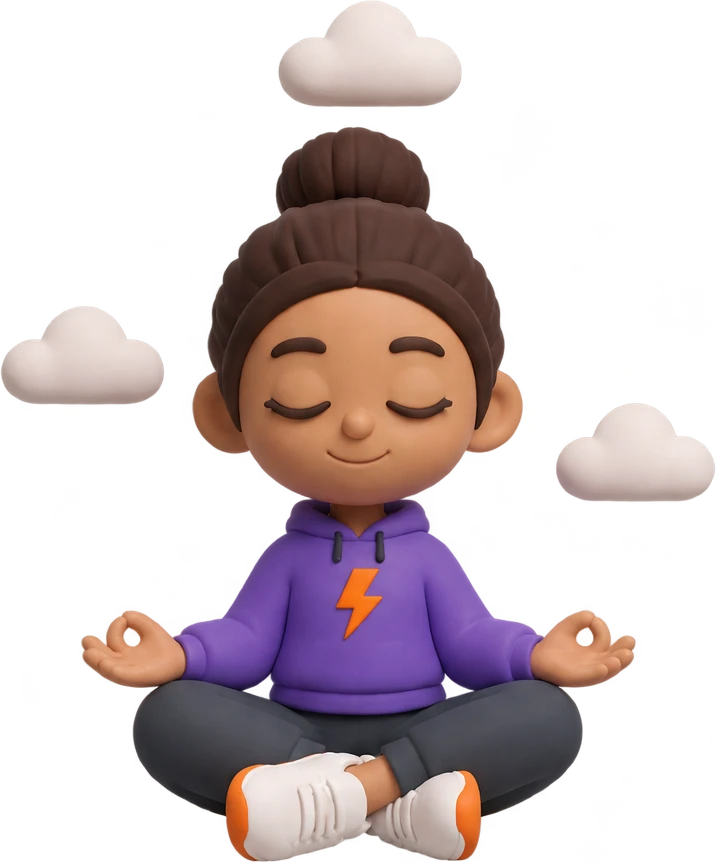
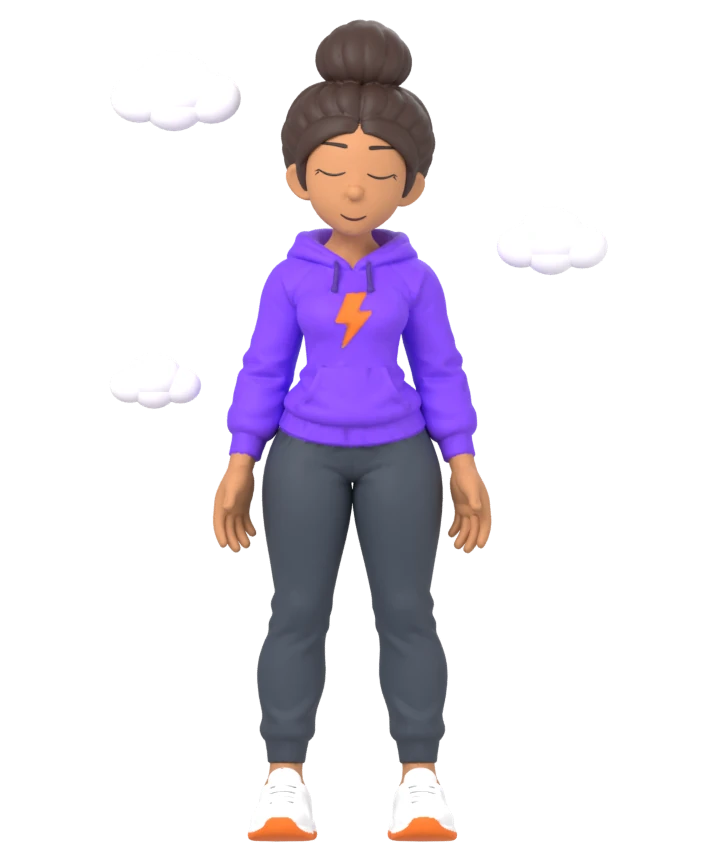
Cenas de calma, foco, leitura, limpeza, filhos e pet com os bonecos novos
Pedido do Elizeu em 28/11/2026: desligar os bonecos antigos em todo lugar.

- As seis ilustrações que ainda mostravam os personagens antigos (modo calma,
  foco, trilhas e missões) agora são os bonecos novos, renderizados dos
  modelos 3D por tools/avatar/v2/07_cenas.py, com objetos simples de cena:
  nuvens, relógio, livro, vassoura e balde, blocos e uma criança, cachorro
- Com isso, nenhuma tela do app mostra mais o boneco antigo

São cenas mais simples que as ilustrações anteriores (sem mesa, pufe e fundo).

diff --git a/tools/avatar/v2/07_cenas.py b/tools/avatar/v2/07_cenas.py
@@ -59,7 +59,7 @@ class Boneco:
         self.esq = next(o for o in self.objs if o.type == 'ARMATURE')
         self.esq.location.x = x
         self.esq.scale = (escala,) * 3
-        self.x, self.escala = x, escala
+        self.x, self.escala, self.qual, self.nome = x, escala, qual, nome
         bpy.context.view_layer.update()
         self.rosto('feliz')
         self.repouso()
@@ -111,6 +111,22 @@ class Boneco:
     def subir(self, dz):
         self.esq.location.z = dz
         bpy.context.view_layer.update()
+
+    def cores(self, pele, moletom, raio, calca, tenis):
+        """Outra combinação de cores para este boneco (a mesma conta que o app faz com o corpo_mapa.png)."""
+        import numpy as np
+        from PIL import Image
+        m = np.array(Image.open(os.path.join(os.path.dirname(BLEND[self.qual]), 'textura2', 'corpo_mapa.png')).convert('RGB'))
+        tab = np.zeros((7, 3), np.float32)
+        for k, h in enumerate(('000000', pele, moletom, raio, calca, tenis, raio)):
+            tab[k] = [int(h[i:i + 2], 16) for i in (0, 2, 4)]
+        reg = np.clip(np.round(m[..., 1] / 36).astype(int), 0, 6)
+        caminho = os.path.join(SAIDA, f'_textura_{self.nome}.png')
+        Image.fromarray((tab[reg] * (m[..., 0:1] / 255.0)).astype(np.uint8), 'RGB').save(caminho)
+        corpo = next(o for o in self.objs if self.nomes[o] == 'corpo')
+        mat = corpo.material_slots[0].material.copy()
+        corpo.material_slots[0].material = mat
+        next(n for n in mat.node_tree.nodes if n.type == 'TEX_IMAGE').image = bpy.data.images.load(caminho)
 
 
 def material(nome, hexa, brilho=0.6, metal=0.0):
@@ -168,6 +184,124 @@ def confete(centro, largura, altura, n, semente, queda=0.0):
         z = centro[2] - altura / 2 + ((z - (centro[2] - altura / 2)) - queda * altura * voltas) % altura
         peca('cube', cores[i % len(cores)], (x, centro[1] + r.uniform(-0.05, 0.05), z), (0.020, 0.005, 0.011),
              (r.uniform(0, 180), r.uniform(0, 180), r.uniform(0, 180) + queda * 360 * voltas))
+
+
+def barra(p0, p1, raio, mat):
+    """Cilindro fino de um ponto a outro (cabo da vassoura, guia do cachorro)."""
+    p0, p1 = Vector(p0), Vector(p1)
+    d = p1 - p0
+    bpy.ops.mesh.primitive_cylinder_add(location=(p0 + p1) / 2, radius=raio, depth=d.length, vertices=14)
+    o = bpy.context.active_object
+    o.rotation_mode = 'QUATERNION'
+    o.rotation_quaternion = d.to_track_quat('Z', 'Y')
+    o.data.materials.append(mat)
+    for p in o.data.polygons:
+        p.use_smooth = True
+    ACESSORIOS.append(o)
+    return o
+
+
+def bola(mat, loc, raio):
+    return peca('uv_sphere', mat, loc, raio if isinstance(raio, tuple) else (raio,) * 3, segments=24, ring_count=14, radius=1.0)
+
+
+def nuvem(centro, tam=1.0):
+    branco = material('nuvem', 'F3EEF7', 0.8)
+    x, y, z = centro
+    for dx, dz, r in ((-0.07, 0.0, 0.05), (0.0, 0.025, 0.07), (0.075, 0.0, 0.052), (0.0, -0.012, 0.055)):
+        bola(branco, (x + dx * tam, y, z + dz * tam), (r * tam * 1.15, r * tam * 0.8, r * tam))
+
+
+def relogio(centro, raio=0.085):
+    roxo, claro, escuro, laranja = material('rel_roxo', '8B6FD6', 0.5), material('rel_claro', 'FBF8F2', 0.5), material('rel_escuro', '3A2A5E', 0.5), material('rel_laranja', 'F97316', 0.5)
+    x, y, z = centro
+    peca('cylinder', roxo, (x, y, z), (raio, raio, 0.03), (90, 0, 0), vertices=40)
+    peca('cylinder', claro, (x, y - 0.031, z), (raio * 0.8, raio * 0.8, 0.004), (90, 0, 0), vertices=40)
+    peca('cylinder', roxo, (x, y, z + raio + 0.012), (0.02, 0.02, 0.016), vertices=16)
+    barra((x, y - 0.037, z), (x, y - 0.037, z + raio * 0.55), 0.006, escuro)
+    barra((x, y - 0.037, z), (x + raio * 0.42, y - 0.037, z + raio * 0.12), 0.006, laranja)
+    for lado in (-1, 1):
+        bola(roxo, (x + lado * raio * 0.6, y, z - raio * 0.93), 0.018)
+
+
+def livro_aberto(centro, larg=0.2, alt=0.14):
+    capa, folha = material('livro_capa', 'F26B1D', 0.55), material('livro_folha', 'FBF6EC', 0.7)
+    x, y, z = centro
+    for lado in (-1, 1):   # quem olha de frente vê a capa; as folhas ficam viradas para quem lê
+        peca('cube', capa, (x + lado * larg * 0.25, y - 0.008, z), (larg * 0.26, 0.007, alt / 2), (-22, 0, lado * 16))
+        peca('cube', folha, (x + lado * larg * 0.24, y + 0.006, z + 0.006), (larg * 0.235, 0.008, alt / 2 - 0.006), (-22, 0, lado * 16))
+
+
+def pilha_de_livros(base):
+    x, y, z = base
+    for i, (cor, larg) in enumerate((('7C5CD6', 0.085), ('0E9F6E', 0.078), ('3B7DDD', 0.082))):
+        peca('cube', material('pilha_' + cor, cor, 0.6), (x + (0.006 if i % 2 else -0.004), y, z + 0.022 + i * 0.044), (larg, 0.06, 0.019))
+        peca('cube', material('pilha_folha', 'FBF6EC', 0.7), (x + 0.012, y - 0.004, z + 0.022 + i * 0.044), (larg - 0.004, 0.058, 0.013))
+
+
+def vassoura(mao, pe):
+    """Cabo passando pela mão até o chão em `pe`, com as cerdas embaixo."""
+    madeira, palha, faixa = material('vas_cabo', 'B9814A', 0.6), material('vas_palha', 'F2C230', 0.75), material('vas_faixa', '7C3AED', 0.6)
+    mao, pe = Vector(mao), Vector(pe)
+    d = (mao - pe).normalized()
+    barra(pe + d * 0.12, mao + d * 0.42, 0.012, madeira)
+    bpy.ops.mesh.primitive_cone_add(location=pe + d * 0.065, radius1=0.085, radius2=0.03, depth=0.13, vertices=24)
+    o = bpy.context.active_object
+    o.rotation_mode = 'QUATERNION'
+    o.rotation_quaternion = d.to_track_quat('Z', 'Y')
+    o.scale = (1.0, 0.45, 1.0)
+    o.data.materials.append(palha)
+    ACESSORIOS.append(o)
+    barra(pe + d * 0.118, pe + d * 0.142, 0.033, faixa)
+
+
+def balde(base):
+    roxo, pano = material('balde', '8B6FD6', 0.5), material('pano', 'FBF6EC', 0.8)
+    x, y, z = base
+    peca('cone', roxo, (x, y, z + 0.075), (1, 1, 1), radius1=0.062, radius2=0.085, depth=0.15, vertices=32)
+    bola(pano, (x + 0.05, y - 0.03, z + 0.15), (0.045, 0.03, 0.022))
+
+
+def brilho(centro, tam=0.03):
+    amarelo = material('brilho', 'FFD23F', 0.4)
+    x, y, z = centro
+    peca('cone', amarelo, (x, y, z + tam / 2), (1, 0.35, 1), radius1=tam * 0.42, radius2=0, depth=tam, vertices=4)
+    peca('cone', amarelo, (x, y, z - tam / 2), (1, 0.35, 1), (180, 0, 0), radius1=tam * 0.42, radius2=0, depth=tam, vertices=4)
+    peca('cone', amarelo, (x + tam / 2, y, z), (1, 0.35, 1), (0, 90, 0), radius1=tam * 0.42, radius2=0, depth=tam, vertices=4)
+    peca('cone', amarelo, (x - tam / 2, y, z), (1, 0.35, 1), (0, -90, 0), radius1=tam * 0.42, radius2=0, depth=tam, vertices=4)
+
+
+def blocos(base):
+    x, y, z = base
+    t = 0.042
+    for i, cor in enumerate(('3B7DDD', '0E9F6E', 'FFD23F', 'E5484D')):
+        peca('cube', material('bloco_' + cor, cor, 0.55), (x + (0.008 if i % 2 else -0.006), y, z + t + i * 2 * t), (t, t, t), (0, 0, 8 * (i % 3 - 1)))
+    peca('cube', material('bloco_F97316', 'F97316', 0.55), (x + 0.16, y - 0.05, z + t), (t, t, t), (0, 0, 20))
+    peca('cube', material('bloco_8B6FD6', '8B6FD6', 0.55), (x - 0.15, y - 0.06, z + t), (t, t, t), (0, 0, -15))
+
+
+def cachorro(base, olha=-1):
+    """Cachorrinho de formas simples, com as patas em `base`. olha = -1: cabeça virada para a esquerda de quem vê."""
+    branco, marrom, preto, coleira = material('cao_branco', 'FBF5EA', 0.75), material('cao_marrom', 'B06A3B', 0.7), material('cao_preto', '2A1A14', 0.35), material('cao_coleira', '7C3AED', 0.5)
+    x, y, z = base
+    bola(branco, (x, y, z + 0.17), (0.15, 0.085, 0.085))                       # corpo
+    bola(marrom, (x - olha * 0.05, y + 0.005, z + 0.215), (0.075, 0.07, 0.05))  # mancha nas costas
+    for dx in (-0.09, 0.09):
+        for dy in (-0.04, 0.04):
+            peca('cylinder', branco, (x + dx, y + dy, z + 0.06), (0.026, 0.026, 0.06), vertices=14)
+            bola(branco, (x + dx + olha * 0.008, y + dy - 0.006, z + 0.016), (0.032, 0.034, 0.018))
+    cx, cz = x + olha * 0.17, z + 0.31
+    bola(branco, (cx, y - 0.01, cz), 0.092)                                    # cabeça
+    bola(branco, (cx + olha * 0.055, y - 0.07, cz - 0.022), (0.05, 0.045, 0.04))  # focinho
+    bola(preto, (cx + olha * 0.075, y - 0.11, cz - 0.008), 0.016)              # nariz
+    bola(marrom, (cx - olha * 0.02, y - 0.05, cz + 0.05), (0.045, 0.05, 0.04))  # mancha no olho
+    for dx in (-0.03, 0.045):
+        bola(preto, (cx + olha * dx, y - 0.083, cz + 0.02), 0.012)             # olhos
+    for dx in (-0.075, 0.07):
+        bola(marrom, (cx + dx, y + 0.0, cz + 0.02), (0.03, 0.022, 0.06))        # orelhas caídas
+    barra((x - olha * 0.14, y, z + 0.22), (x - olha * 0.2, y, z + 0.33), 0.016, branco)  # rabo
+    peca('torus', coleira, (x + olha * 0.105, y, z + 0.235), (1, 1, 1), (0, olha * 62, 0), major_radius=0.072, minor_radius=0.012)
+    return Vector((x + olha * 0.10, y - 0.05, z + 0.25))                       # onde a guia prende
 
 
 # ───────── luz e câmera ─────────
@@ -253,9 +387,11 @@ def esconder_todos():
             o.hide_render = True
 
 
-def mostrar(b):
+def mostrar(b, x=None):
+    """Põe o boneco na cena, em repouso e sorrindo. `x` muda o lugar dele só nesta cena."""
     for o in b.objs:
         o.hide_render = False
+    b.esq.location.x = b.x if x is None else x
     b.rosto('feliz')
     b.subir(0.0)
     b.repouso()
@@ -281,8 +417,7 @@ def cena_ola(fase=0.0):
 def cena_vitoria(fase=0.0):
     """Ele comemorando com o troféu no alto e confete. fase de 0 a 1 = um pulinho."""
     ele = elenco('ele', 'm', -0.34)
-    mostrar(ele)
-    ele.esq.location.x = 0.0
+    mostrar(ele, 0.0)
     ele.rosto('orgulhoso')
     pulo = abs(math.sin(fase * math.pi))
     ele.girar('RightArm', 128 + 6 * pulo)            # braço do troféu
@@ -296,17 +431,107 @@ def cena_vitoria(fase=0.0):
     mao = ele.palma('Right')
     trofeu((mao.x, mao.y - 0.01, mao.z + 0.03))
     confete((0.0, 0.0, 1.0), 1.25, 1.55, 26, 7, queda=fase)
-    ele.esq.location.x = 0.0
+
+
+def cena_calma(fase=0.0):
+    """Ela de olhos fechados, tranquila, com nuvens em volta."""
+    ela = elenco('ela', 'f', 0.34)
+    mostrar(ela, 0.0)
+    ela.rosto('feliz', olho='fechado', sobrancelha='neutro')
+    ela.girar('Head', 4)
+    ela.girar('Head', 5, 'X')
+    nuvem((-0.36, 0.05, 1.50))
+    nuvem((0.40, 0.05, 1.20), 0.85)
+    nuvem((-0.40, 0.05, 0.92), 0.7)
+
+
+def cena_foco(fase=0.0):
+    """Ela determinada, punho erguido, com o relógio da missão ao lado."""
+    ela = elenco('ela', 'f', 0.34)
+    mostrar(ela, -0.10)
+    ela.rosto('determinado')
+    ela.girar('RightArm', 30)
+    ela.girar('RightArm', -20, 'X')
+    ela.girar('RightForeArm', 100)
+    relogio((0.34, -0.02, 0.98), 0.105)
+
+
+def cena_ler(fase=0.0):
+    """Ela lendo um livro aberto, com uma pilha de livros ao lado."""
+    ela = elenco('ela', 'f', 0.34)
+    mostrar(ela, -0.08)
+    for lado, s in (('Left', 1), ('Right', -1)):
+        ela.girar(lado + 'Arm', -32, 'X')
+        ela.girar(lado + 'Arm', -24 * s, 'Z')
+        ela.girar(lado + 'ForeArm', -62, 'X')
+    ela.girar('Head', 12, 'X')
+    a, b = ela.palma('Left'), ela.palma('Right')
+    meio = (a + b) / 2
+    livro_aberto((meio.x, meio.y - 0.02, meio.z + 0.035), larg=max(0.2, (a - b).length + 0.05))
+    pilha_de_livros((0.34, 0.02, 0.0))
+
+
+def cena_limpar(fase=0.0):
+    """Ele varrendo, com o balde ao lado e uns brilhos de coisa limpa."""
+    ele = elenco('ele', 'm', -0.34)
+    mostrar(ele, -0.06)
+    ele.girar('RightArm', -30, 'X')
+    ele.girar('RightArm', 26, 'Z')
+    ele.girar('RightForeArm', -38, 'X')
+    ele.girar('LeftArm', -18, 'X')
+    ele.girar('LeftArm', -34, 'Z')
+    ele.girar('LeftForeArm', -30, 'X')
+    ele.girar('Head', 5)
+    a, b = ele.palma('Left'), ele.palma('Right')
+    meio = (a + b) / 2
+    pe = (0.36, meio.y - 0.06, 0.0)
+    vassoura(meio, pe)
+    balde((-0.48, 0.05, 0.0))
+    brilho((0.56, -0.1, 0.30), 0.05)
+    brilho((0.47, -0.1, 0.45), 0.03)
+
+
+def cena_filhos(fase=0.0):
+    """Ela com uma criança e uma torre de blocos."""
+    ela = elenco('ela', 'f', 0.34)
+    filho = elenco('filho', 'm', 0.42, 0.50)
+    if not getattr(filho, 'pintado', False):
+        filho.cores('C98A5E', 'F4EDE1', 'F97316', '3B7DDD', 'F4F4F5')
+        filho.pintado = True
+    mostrar(ela, -0.30)
+    mostrar(filho)
+    ela.rosto('feliz')
+    ela.girar('Head', 9)
+    ela.girar('Head', 9, 'X')
+    ela.girar('LeftArm', -34)
+    ela.girar('LeftArm', -22, 'X')
+    filho.rosto('animado')
+    filho.girar('RightArm', 96)
+    filho.girar('RightForeArm', 30)
+    filho.girar('LeftArm', -96)
+    filho.girar('LeftForeArm', -30)
+    filho.girar('Head', -6)
+    blocos((0.10, -0.08, 0.0))
+
+
+def cena_pet(fase=0.0):
+    """Ele passeando com o cachorro na guia."""
+    ele = elenco('ele', 'm', -0.34)
+    mostrar(ele, -0.26)
+    ele.girar('LeftArm', -16)
+    ele.girar('LeftArm', -14, 'X')
+    ele.girar('Head', 7)
+    ele.girar('Head', 6, 'X')
+    prende = cachorro((0.44, -0.04, 0.0), olha=-1)
+    barra(ele.palma('Left'), prende, 0.007, material('guia', '7C3AED', 0.5))
 
 
 def depois_da_cena():
     limpar_acessorios()
-    if 'ele' in ELENCO:
-        ELENCO['ele'].esq.location.x = ELENCO['ele'].x
-        bpy.context.view_layer.update()
 
 
-FEITAS = {'ola': cena_ola, 'vitoria': cena_vitoria}
+FEITAS = {'ola': cena_ola, 'vitoria': cena_vitoria, 'calma': cena_calma, 'foco': cena_foco,
+          'ler': cena_ler, 'limpar': cena_limpar, 'filhos': cena_filhos, 'pet': cena_pet}
 
 for nome in CENAS:
     monta = FEITAS[nome]
